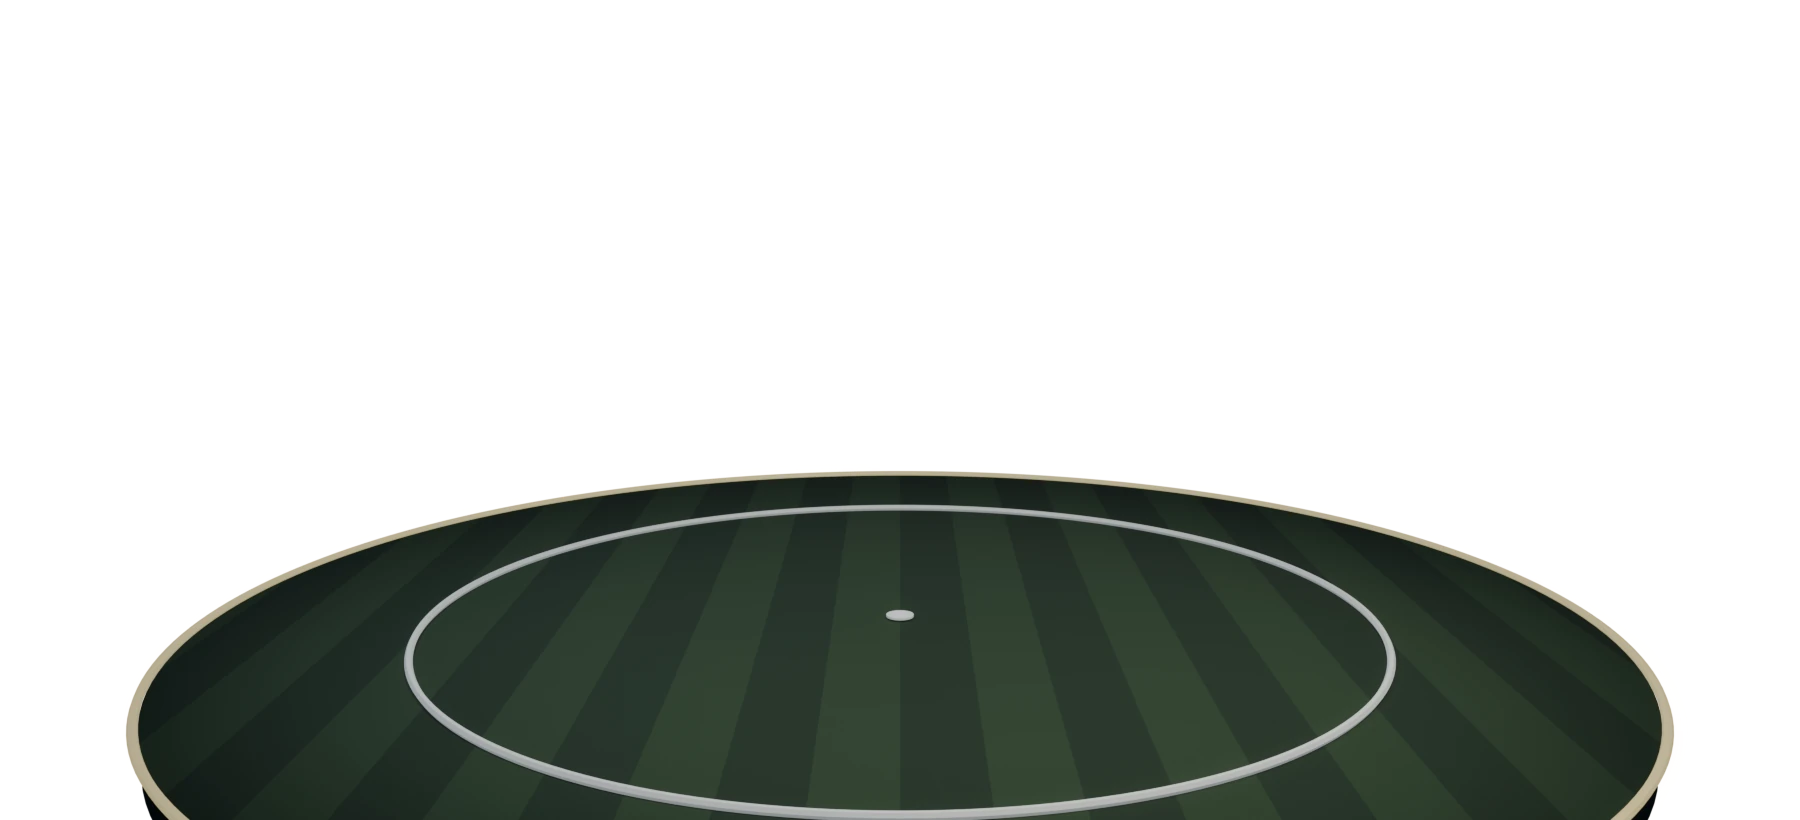
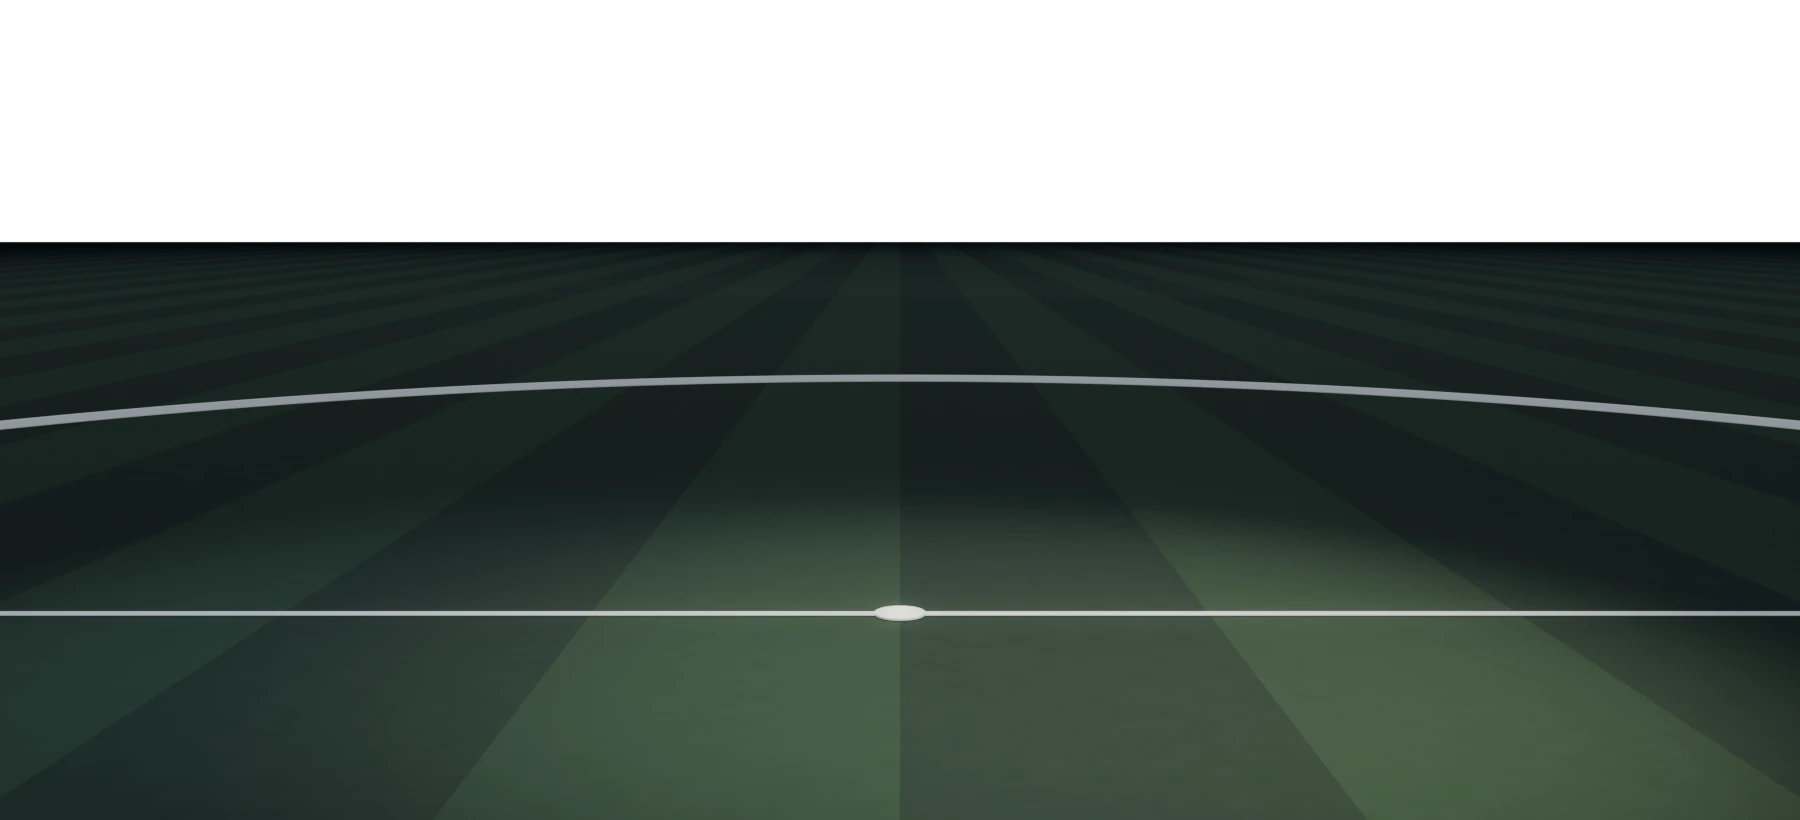
MEMBER: 円盤の台をやめて本物のピッチにし、テロップの硬い切れ端を直す
どちらも私の判断が悪かった。

円盤: 最初に「選手用のステージ」と伺ったのを文字どおり受け取り、
円盤の台を作った。サッカークラブの画面としては、台に載せるのではなく
ピッチの上に立たせるべきで、いまのは3Dの商品台に見えていた。
画面の端まで続く芝、ハーフウェイライン、センタースポット、
センターサークルの弧、遠くのゴールと照明に置き換えた。
選手はセンタースポットの上に立つ。

テロップ: 半透明のまま右端が硬く切れていて、板を置いただけに見えていた。
文字の外側に逃げの余白を取り、そこで芝へ抜けるようにした。幅は中身に
合わせる。左の金の罫はそのまま。

立ち位置はレンダで実測して 74.7%（旧78.7%）に合わせ直した。
コントラストは 8.78〜16.57（テロップの下地込み）。旧ピッチより上がった。
360〜1100px の6段階で、はみ出し・横溢れなしを確認。
写真が無いエンブレム表示でも成立することを確認。

Claude-Session: https://claude.ai/code/session_01GxWRvPVGrP95bEtFfkLXS7

diff --git a/assets/css/style.css b/assets/css/style.css
@@ -766,7 +766,7 @@ button.btn{color:inherit;font:inherit}
    写真は1枚しかないので、人は小さくしか動かさない。
    重さは影と床で作る。 */
 .stage__cast{position:absolute;inset:0}
-.stage__figure{position:absolute;left:50%;bottom:21.3%;height:66%;
+.stage__figure{position:absolute;left:50%;bottom:25.3%;height:62%;
   margin:0;display:flex;flex-direction:column;align-items:center;justify-content:flex-end;
   transform:translate(calc(-50% + var(--px,0px)),0);will-change:transform,opacity}
 .stage__shadow{position:absolute;bottom:-3%;left:50%;width:150%;height:11%;
@@ -777,7 +777,7 @@ button.btn{color:inherit;font:inherit}
          drop-shadow(0 0 22px rgba(var(--navy-deep-rgb),.75))}
 .stage__crest{height:46%;width:auto;opacity:.45}
 /* 胸から上の写真は、切れ目をぼかして光の中から現れるように見せる */
-.stage__figure.is-bust{height:50%}
+.stage__figure.is-bust{height:47%}
 .stage__figure.is-bust .stage__shadow{opacity:0}
 .stage__figure.is-bust .stage__photo{
   -webkit-mask-image:linear-gradient(to bottom,#000 72%,transparent 99%);
@@ -809,12 +809,14 @@ button.btn{color:inherit;font:inherit}
 .stage__scene.is-swapping .stage__glow{opacity:.55}
 
 /* 名前は舞台の外に置かず、中継のテロップのように芝の上に重ねる */
+/* 右端を硬く切ると「板を置いた」だけに見える。文字の外側に
+   逃げの余白を取り、そこで芝へ抜けるようにする */
 .stage__plate{position:absolute;left:clamp(1.2rem,3.2vw,2.6rem);bottom:clamp(1.1rem,3vw,2.2rem);
-  max-width:46%;text-align:left;
-  padding:1.05rem 1.9rem 1.05rem 1.15rem;
-  background:linear-gradient(90deg,rgba(var(--navy-deep-rgb),.93),rgba(var(--navy-deep-rgb),.74) 78%,
-    rgba(var(--navy-deep-rgb),.66));
-  -webkit-backdrop-filter:blur(3px);backdrop-filter:blur(3px)}
+  width:max-content;max-width:56%;text-align:left;
+  padding:1.05rem 5.5rem 1.05rem 1.15rem;
+  background:linear-gradient(90deg,rgba(var(--navy-deep-rgb),.94) 0,
+    rgba(var(--navy-deep-rgb),.94) calc(100% - 5.5rem),rgba(var(--navy-deep-rgb),0) 100%);
+  -webkit-backdrop-filter:blur(2px);backdrop-filter:blur(2px)}
 .stage__rule{position:absolute;left:0;top:0;bottom:0;width:2px;background:var(--gold);
   transform-origin:50% 50%}
 .stage__plate p{overflow:hidden;margin:0}
@@ -857,7 +859,7 @@ button.btn{color:inherit;font:inherit}
   /* 横長のままだと舞台が低すぎる。左右を切って縦を稼ぐ（立ち位置は縦基準なのでずれない） */
   .stage__scene{border-radius:6px;aspect-ratio:5/4}
   .stage__scrim{background:linear-gradient(0deg,rgba(var(--navy-deep-rgb),.55),transparent 42%)}
-  .stage__plate{position:static;max-width:none;text-align:center;background:none;
+  .stage__plate{position:static;width:auto;max-width:none;text-align:center;background:none;
     -webkit-backdrop-filter:none;backdrop-filter:none;
     margin:1.2rem auto 0;padding:1.1rem 0 0;border-top:1px solid var(--line)}
   .stage__rule{display:none}

diff --git a/sponsor.html b/sponsor.html
@@ -13,7 +13,7 @@
 <link rel="preconnect" href="https://fonts.googleapis.com" />
 <link rel="preconnect" href="https://fonts.gstatic.com" crossorigin />
 <link href="https://fonts.googleapis.com/css2?family=Anton&family=Oswald:wght@400;500;600;700&family=Noto+Sans+JP:wght@400;500;700;900&display=swap" rel="stylesheet" />
-<link rel="stylesheet" href="assets/css/style.css?v=5290b68c" />
+<link rel="stylesheet" href="assets/css/style.css?v=1c58e72a" />
   <script type="module" src="assets/vendor/model-viewer-4.3.1.min.js"></script>
 </head>
 <body>

diff --git a/index.html b/index.html
@@ -13,7 +13,7 @@
 <link rel="preconnect" href="https://fonts.googleapis.com" />
 <link rel="preconnect" href="https://fonts.gstatic.com" crossorigin />
 <link href="https://fonts.googleapis.com/css2?family=Anton&family=Oswald:wght@400;500;600;700&family=Noto+Sans+JP:wght@400;500;700;900&display=swap" rel="stylesheet" />
-<link rel="stylesheet" href="assets/css/style.css?v=5290b68c" />
+<link rel="stylesheet" href="assets/css/style.css?v=1c58e72a" />
 </head>
 <body>
 

diff --git a/member.html b/member.html
@@ -13,7 +13,7 @@
 <link rel="preconnect" href="https://fonts.googleapis.com" />
 <link rel="preconnect" href="https://fonts.gstatic.com" crossorigin />
 <link href="https://fonts.googleapis.com/css2?family=Anton&family=Oswald:wght@400;500;600;700&family=Noto+Sans+JP:wght@400;500;700;900&display=swap" rel="stylesheet" />
-<link rel="stylesheet" href="assets/css/style.css?v=5290b68c" />
+<link rel="stylesheet" href="assets/css/style.css?v=1c58e72a" />
 </head>
 <body>
 

diff --git a/recruit.html b/recruit.html
@@ -13,7 +13,7 @@
 <link rel="preconnect" href="https://fonts.googleapis.com" />
 <link rel="preconnect" href="https://fonts.gstatic.com" crossorigin />
 <link href="https://fonts.googleapis.com/css2?family=Anton&family=Oswald:wght@400;500;600;700&family=Noto+Sans+JP:wght@400;500;700;900&display=swap" rel="stylesheet" />
-<link rel="stylesheet" href="assets/css/style.css?v=5290b68c" />
+<link rel="stylesheet" href="assets/css/style.css?v=1c58e72a" />
 </head>
 <body>
 

diff --git a/schedule.html b/schedule.html
@@ -13,7 +13,7 @@
 <link rel="preconnect" href="https://fonts.googleapis.com" />
 <link rel="preconnect" href="https://fonts.gstatic.com" crossorigin />
 <link href="https://fonts.googleapis.com/css2?family=Anton&family=Oswald:wght@400;500;600;700&family=Noto+Sans+JP:wght@400;500;700;900&display=swap" rel="stylesheet" />
-<link rel="stylesheet" href="assets/css/style.css?v=5290b68c" />
+<link rel="stylesheet" href="assets/css/style.css?v=1c58e72a" />
 </head>
 <body>
 
